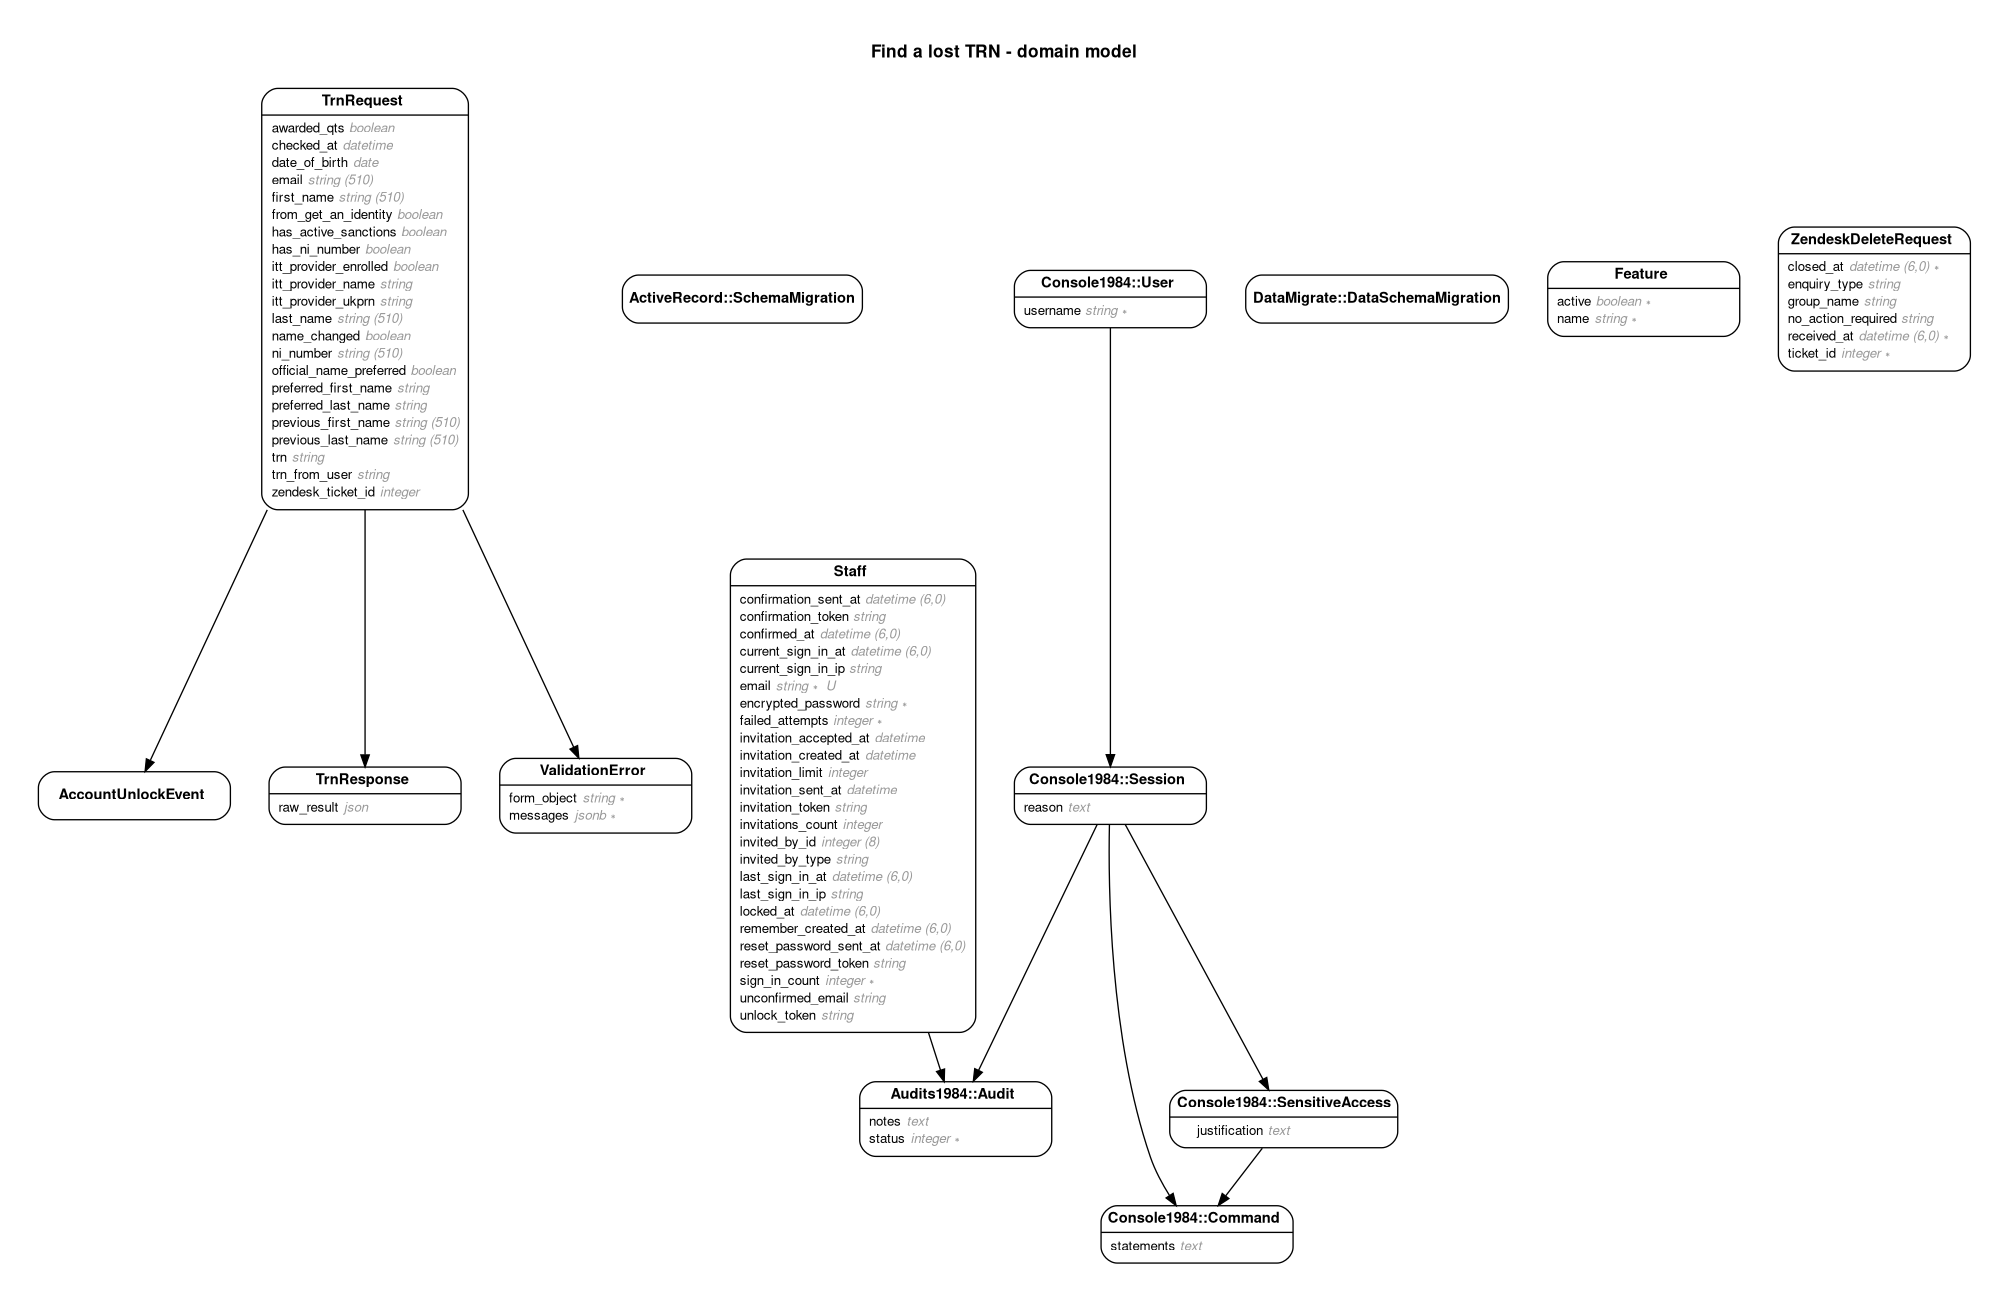
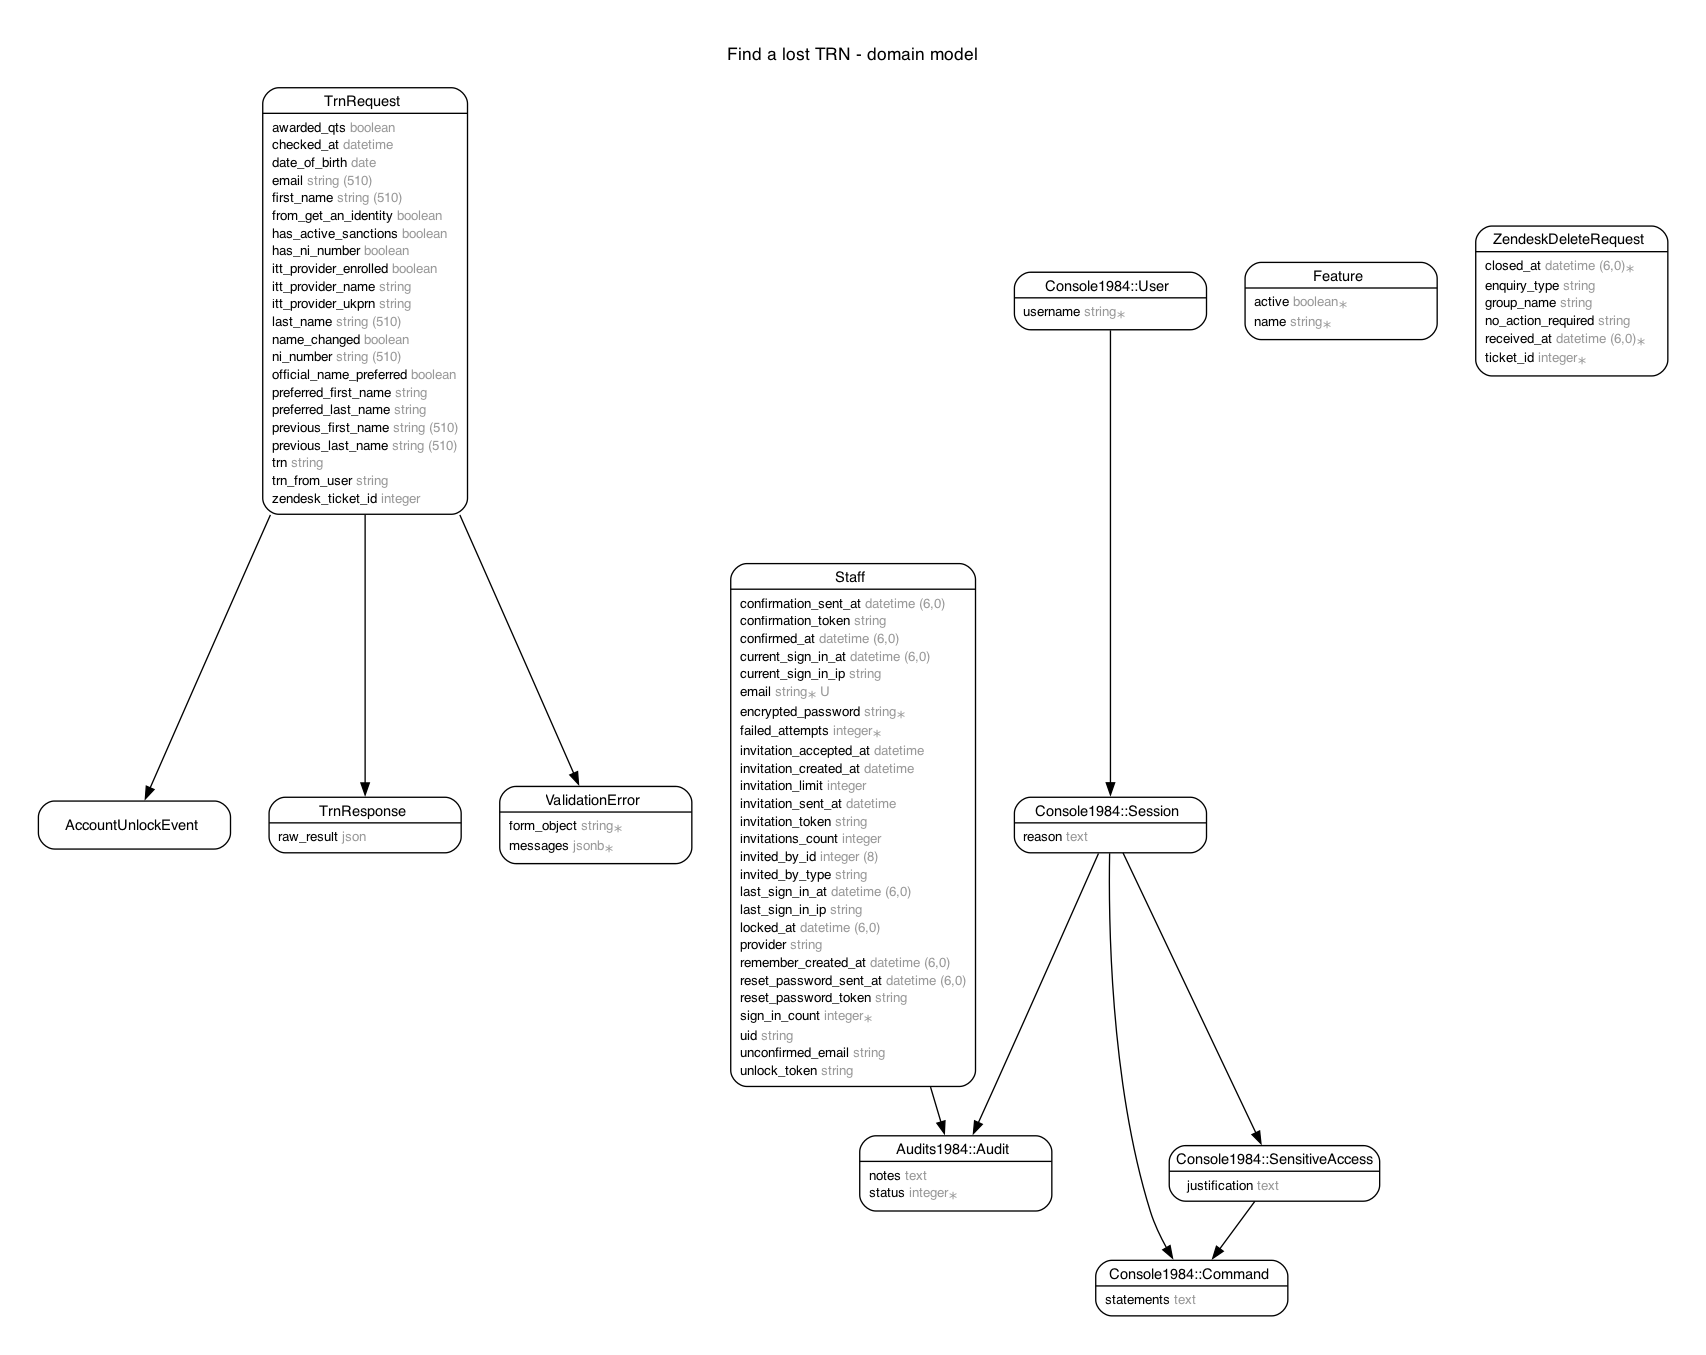
Add uid and provider columns to staff
Staff are looked up by email today, so a support user who changes their
email address in get-an-identity gets a duplicate record. Add the columns
needed to key on the identity provider's stable uid instead, with a unique
index on [provider, uid]. Both columns are nullable so existing rows (which
have no uid yet) are backfilled lazily on next sign-in.

# Conflicts:
#	db/schema.rb

diff --git a/db/migrate/20260722114250_add_uid_and_provider_to_staff.rb b/db/migrate/20260722114250_add_uid_and_provider_to_staff.rb
@@ -1,0 +1,9 @@
+class AddUidAndProviderToStaff < ActiveRecord::Migration[7.2]
+  def change
+    change_table :staff, bulk: true do |t|
+      t.string :uid
+      t.string :provider
+    end
+    add_index :staff, %i[provider uid], unique: true
+  end
+end

diff --git a/db/schema.rb b/db/schema.rb
@@ -10,7 +10,7 @@
 #
 # It's strongly recommended that you check this file into your version control system.
 
-ActiveRecord::Schema[7.2].define(version: 2026_06_30_134004) do
+ActiveRecord::Schema[7.2].define(version: 2026_07_22_114250) do
   # These are extensions that must be enabled in order to support this database
   enable_extension "plpgsql"
 
@@ -105,11 +105,14 @@ ActiveRecord::Schema[7.2].define(version: 2026_06_30_134004) do
     t.string "invited_by_type"
     t.bigint "invited_by_id"
     t.integer "invitations_count", default: 0
+    t.string "uid"
+    t.string "provider"
     t.index ["confirmation_token"], name: "index_staff_on_confirmation_token", unique: true
     t.index ["email"], name: "index_staff_on_email", unique: true
     t.index ["invitation_token"], name: "index_staff_on_invitation_token", unique: true
     t.index ["invited_by_id"], name: "index_staff_on_invited_by_id"
     t.index ["invited_by_type", "invited_by_id"], name: "index_staff_on_invited_by"
+    t.index ["provider", "uid"], name: "index_staff_on_provider_and_uid", unique: true
     t.index ["reset_password_token"], name: "index_staff_on_reset_password_token", unique: true
     t.index ["unlock_token"], name: "index_staff_on_unlock_token", unique: true
   end